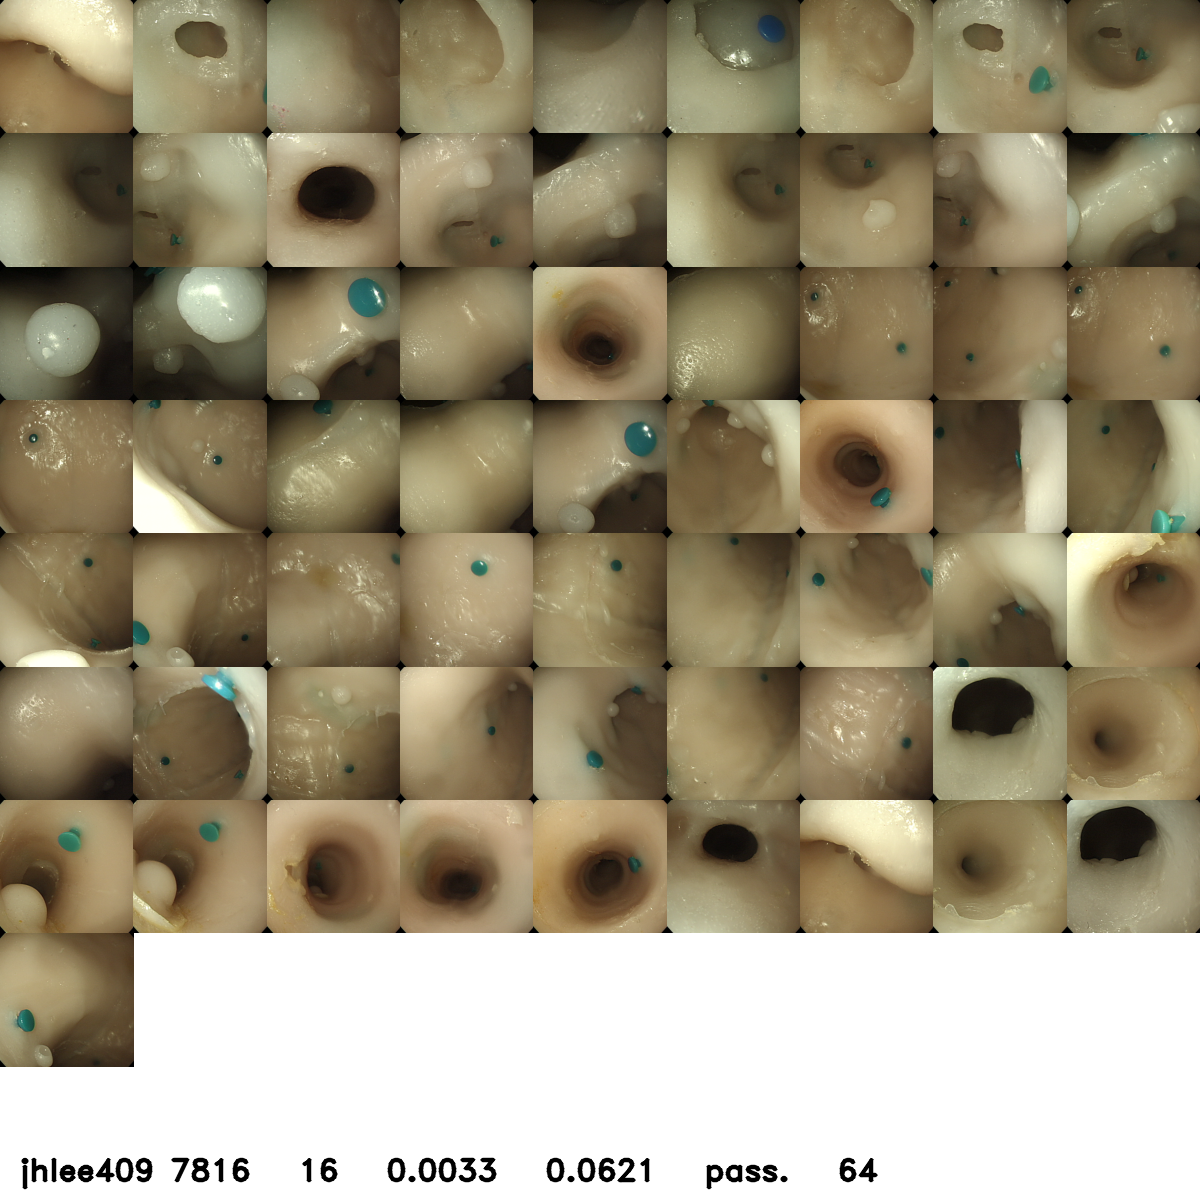
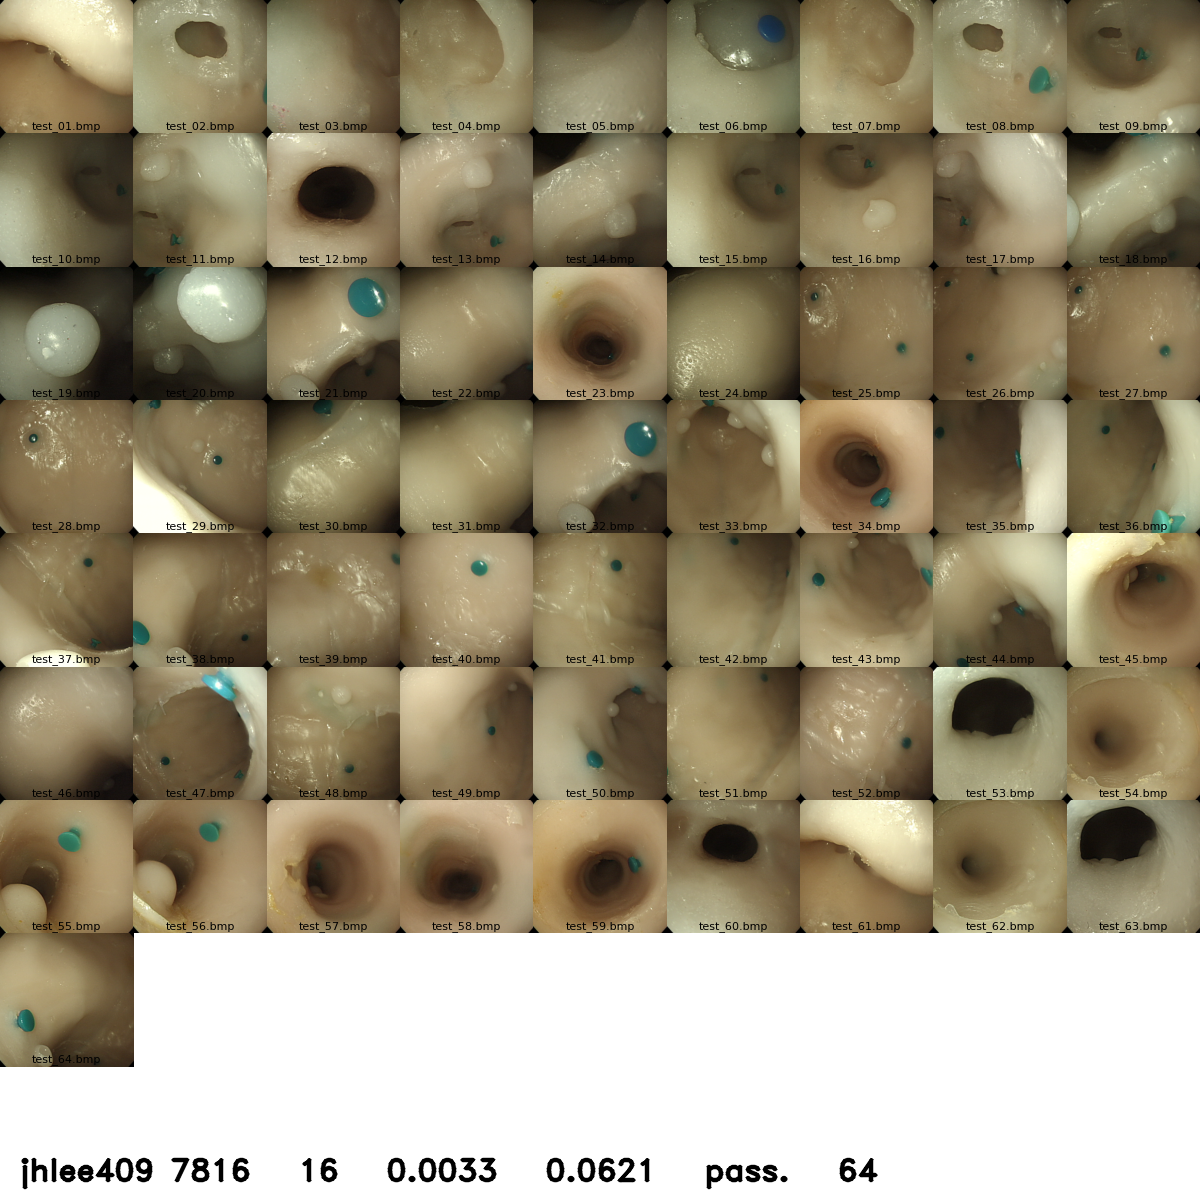
7

diff --git a/EGD_sikll_evaluation.py b/EGD_sikll_evaluation.py
@@ -285,8 +285,16 @@ for ii in img_list:
     plt.figure(1)
     plt.subplot(rows, columns, q, aspect='equal')
     plt.axis('off')
-    plt.imshow(img)
+    
+    # 이미지 크기를 두 배로 조정
+    img_resized = cv2.resize(img, (img.shape[1] * 2, img.shape[0] * 2))
+    plt.imshow(img_resized)
     plt.subplots_adjust(left=0, bottom=0, right=1, top=1, wspace=0, hspace=0)
+    
+    # 이미지 이름을 이미지 내부 밑부분에 추가
+    image_name = os.path.basename(ii)
+    plt.text(0.5, 0.05, image_name, fontsize=8, ha='center', va='center', transform=plt.gca().transAxes)
+    
     q = q + 1
 
 plt.savefig('test_result.png')
